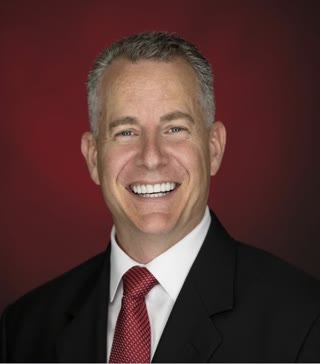
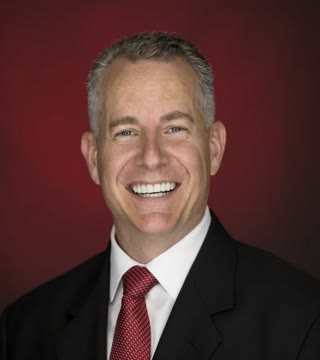
Founder photo: trim the white line at the bottom edge
Claude-Session: https://claude.ai/code/session_01C24s48QBeAMLS2iDpVHsTf

diff --git a/sites/key-technologies/index.html b/sites/key-technologies/index.html
@@ -1014,7 +1014,7 @@
         <h2 style="margin-top:8px;">SHANE CHRISTENSEN</h2>
         <p style="margin-top:14px;font-size:18px;color:var(--ink);font-weight:600;">Decades in technology.
           Ten years building digital audiences. Now focused on what AI/SI can do for business.</p>
-        <figure class="about-photo reveal"><img src="images/shane-christensen-320.jpg" srcset="images/shane-christensen-320.jpg 320w, images/shane-christensen.jpg 528w" sizes="300px" width="528" height="600" alt="Shane Christensen, founder of Key Technologies" loading="lazy" decoding="async"></figure>
+        <figure class="about-photo reveal"><img src="images/shane-christensen-320.jpg" srcset="images/shane-christensen-320.jpg 320w, images/shane-christensen.jpg 528w" sizes="300px" width="528" height="594" alt="Shane Christensen, founder of Key Technologies" loading="lazy" decoding="async"></figure>
       </div>
       <div>
         <p>Shane Christensen first saw a computer in his junior high school computer lab, back when floppy
